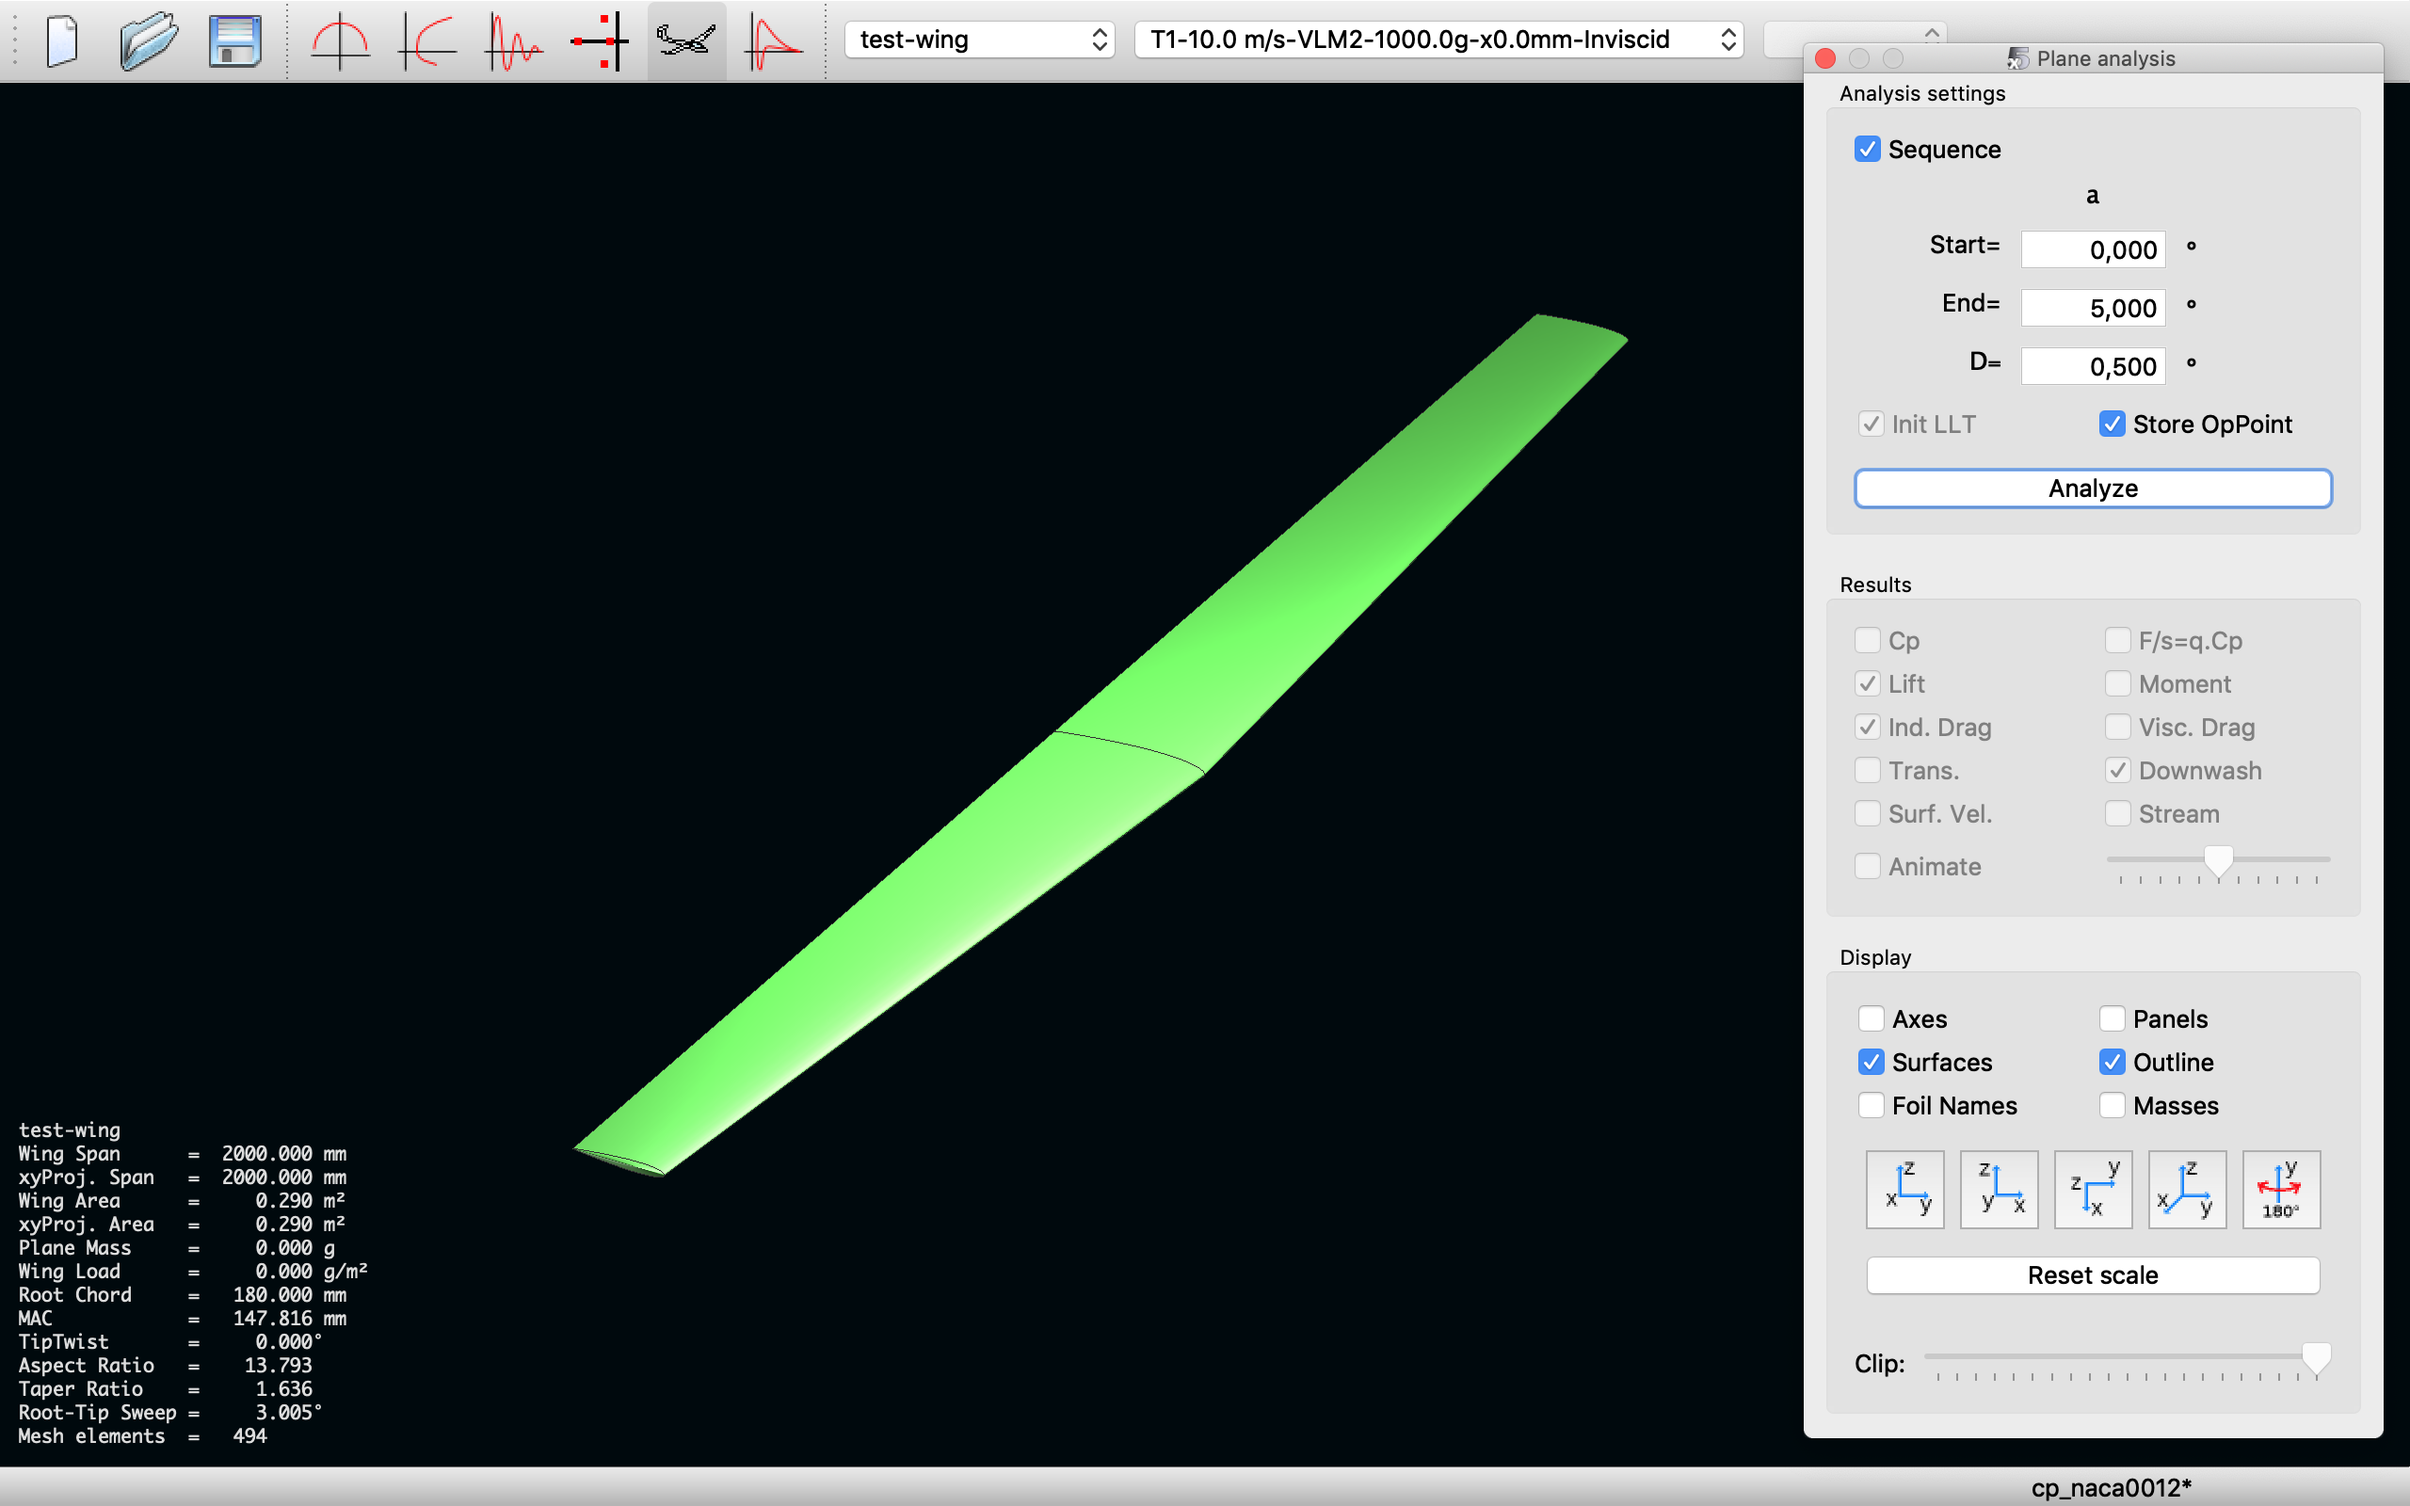
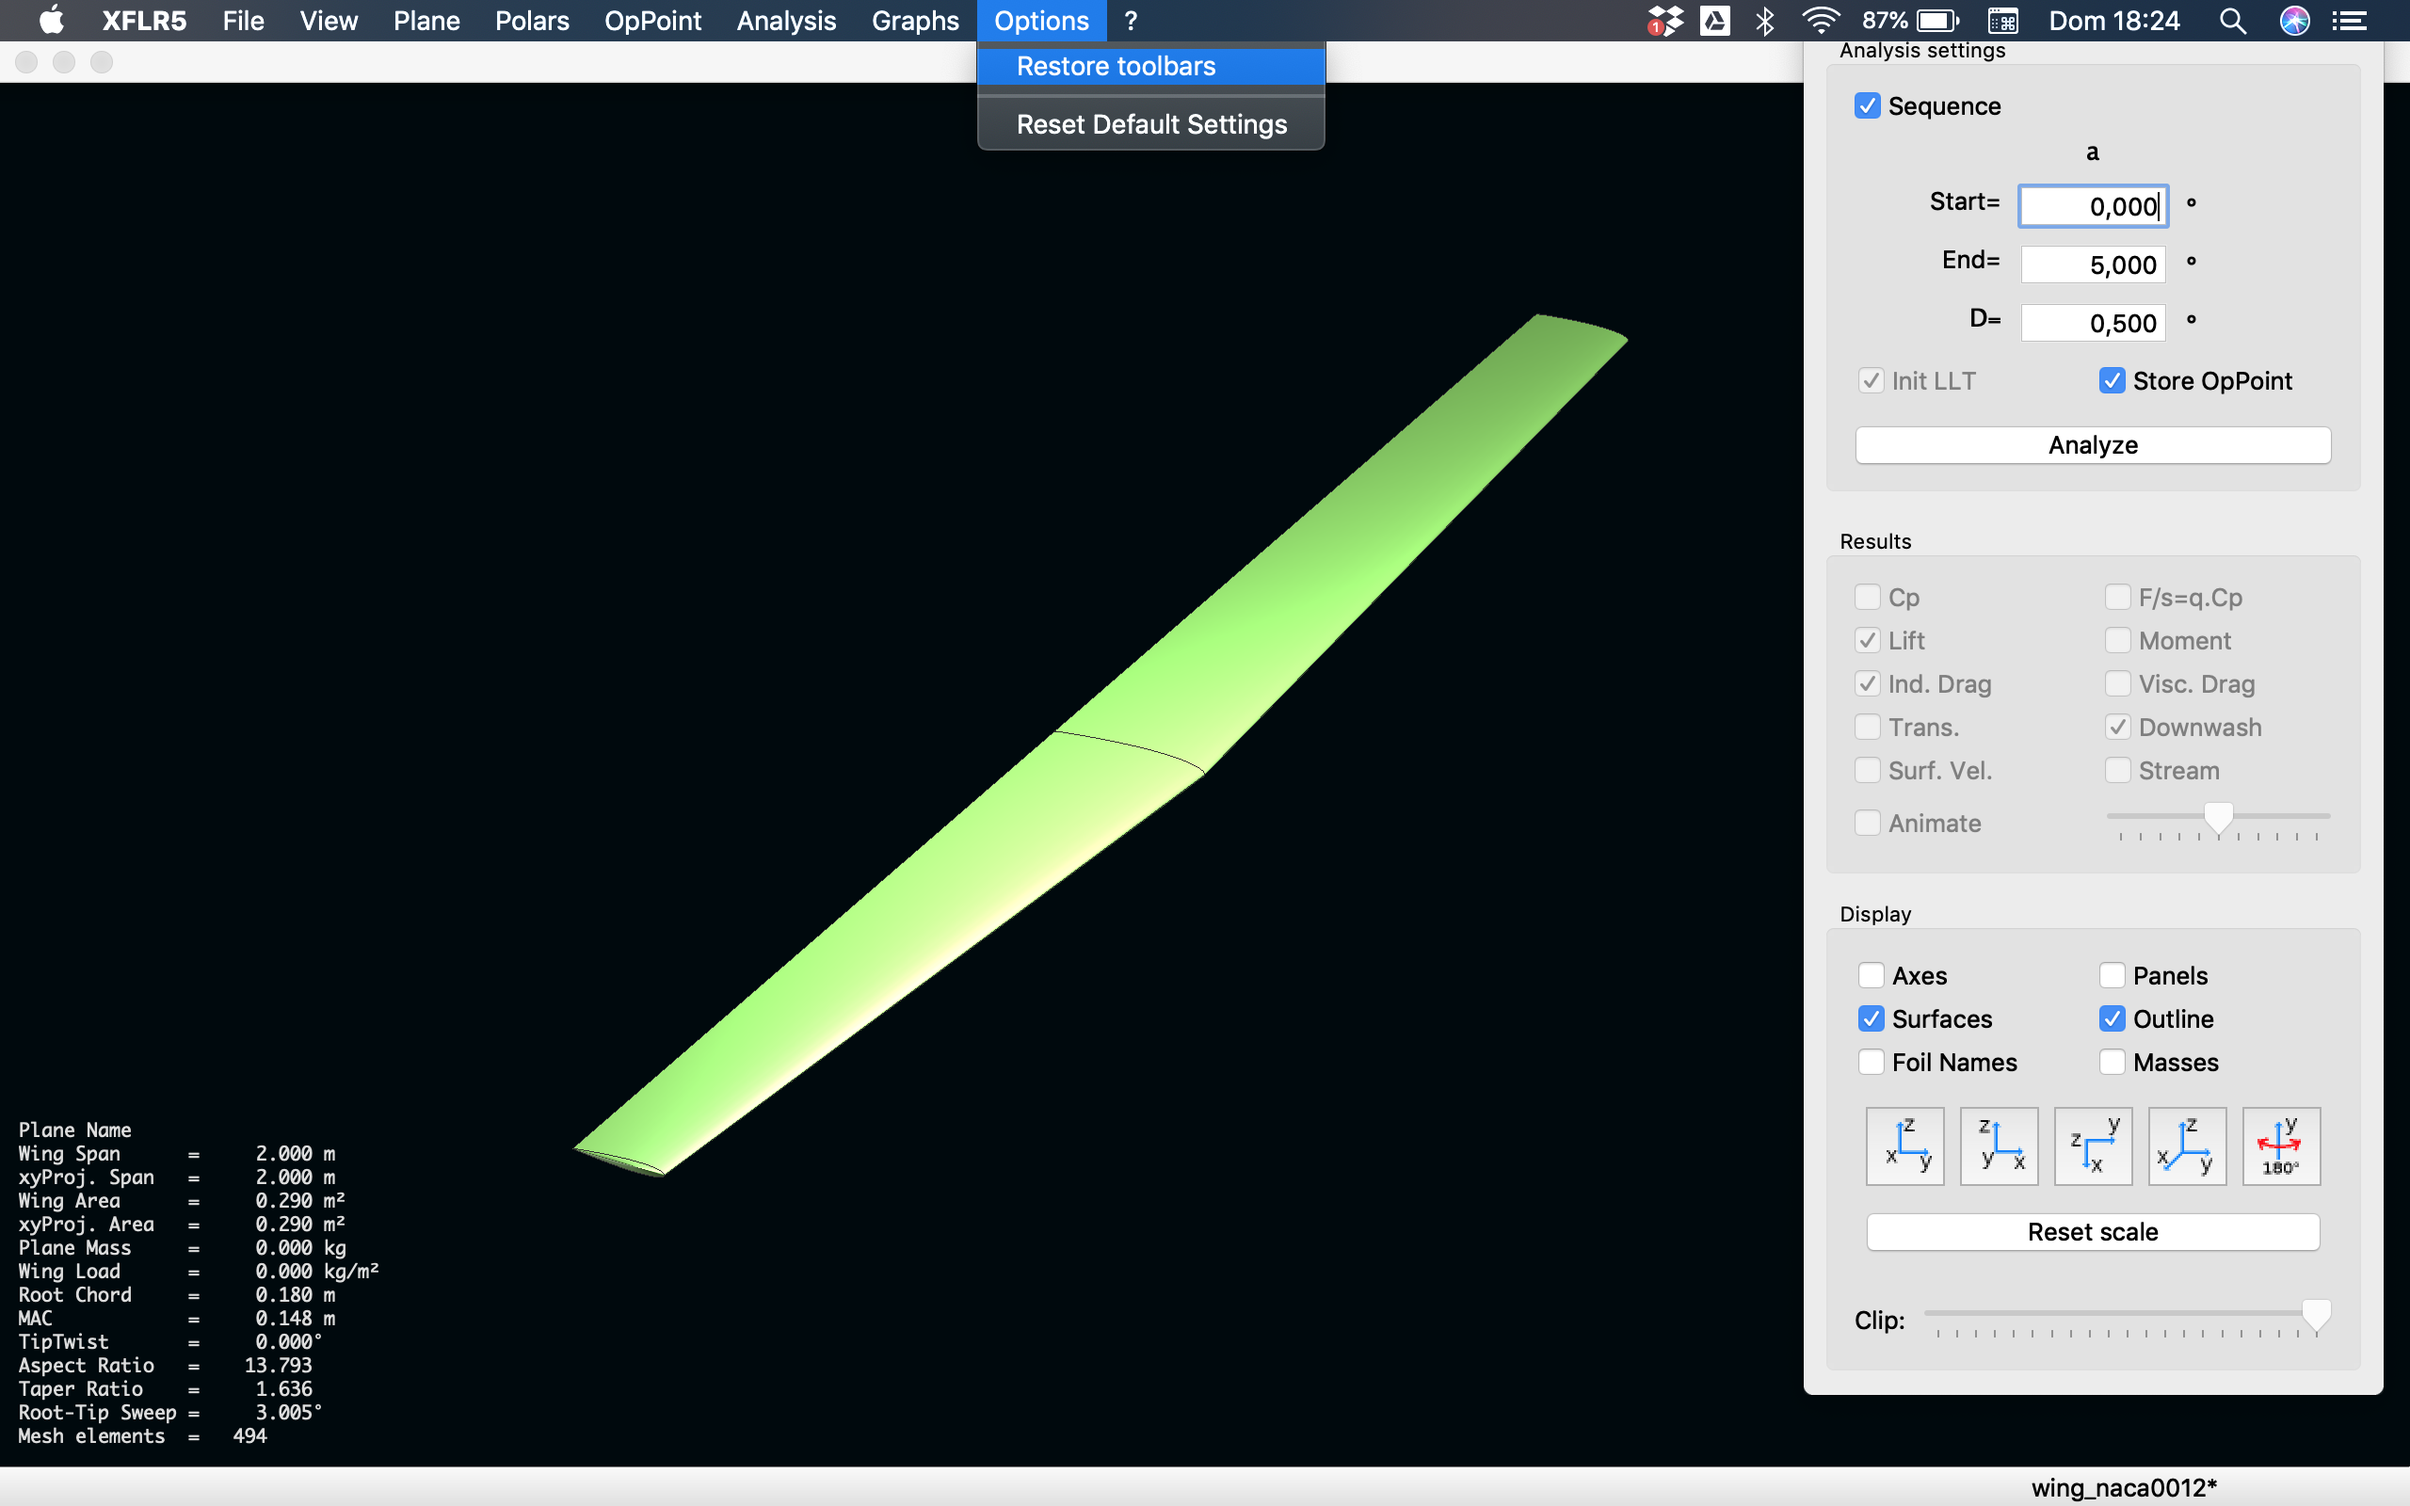
updt wing_11 screen - including: Options > Restore toolbars

diff --git a/doc/tutorial/xflr5/wings.md b/doc/tutorial/xflr5/wings.md
@@ -56,7 +56,9 @@ However the most important sections to pay attention for are:
 
 ![alt text](screenshots/wing_10.png)
 
-This will enable, on the right side of your screen, the `Plane analysis` window, with the buttons to configure the angle of attack `Sequence`. Do not forget to **check** the `Store Opp` box, not to discard the analysis processed by the solver. If not, click on the `Options > Restore toolbars` dropdown menu to make the `Plane analysis` window appearing.
+This will enable, on the right side of your screen, the `Plane analysis` window, with the buttons to configure the angle of attack `Sequence`. Do not forget to **check** the `Store Opp` box, not to discard the analysis processed by the solver. 
+
+If the `Plane analysis` window is not there, click `Options > Restore toolbars` to make it appearing.
 
 ![alt text](screenshots/wing_11.png)
 
